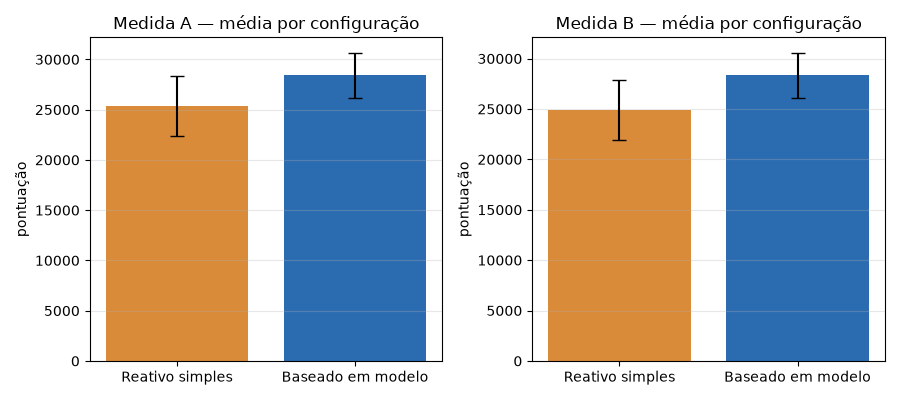
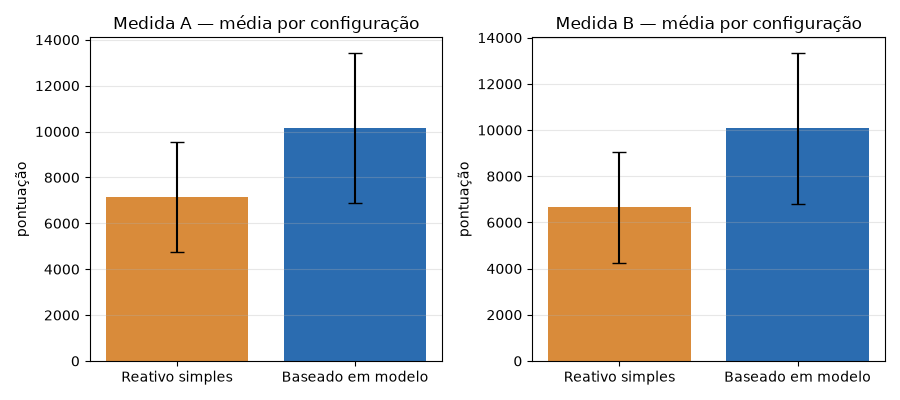
refactor: pontua apenas os quadrados limpos pelo agente nas medidas A e B

diff --git a/aspirador/simulador.py b/aspirador/simulador.py
@@ -12,7 +12,7 @@ class Medida:
     total: float = 0.0
     historico: list = field(default_factory=list)
 
-    def passo(self, quadrados_limpos: int, movimentos: int) -> None:
+    def passo(self, celulas_limpas: int, movimentos: int) -> None:
         raise NotImplementedError
 
     def media(self, n: int) -> float:
@@ -23,8 +23,8 @@ class MedidaA(Medida):
     def __init__(self) -> None:
         super().__init__(nome="Medida A")
 
-    def passo(self, quadrados_limpos: int, movimentos: int) -> None:
-        self.total += quadrados_limpos
+    def passo(self, celulas_limpas: int, movimentos: int) -> None:
+        self.total += celulas_limpas
         self.historico.append(self.total)
 
 
@@ -33,9 +33,9 @@ class MedidaB(Medida):
         super().__init__(nome="Medida B")
         self.movimentos = 0
 
-    def passo(self, quadrados_limpos: int, movimentos: int) -> None:
+    def passo(self, celulas_limpas: int, movimentos: int) -> None:
         self.movimentos += movimentos
-        self.total += quadrados_limpos - movimentos
+        self.total += celulas_limpas - movimentos
         self.historico.append(self.total)
 
 
@@ -110,7 +110,7 @@ class Simulador:
 
         self.passos += 1
         self.acoes.append(acao.value)
-        limpos = self.ambiente.quadrados_limpos()
+        limpos = self.ambiente.limpas
         self.medida_a.passo(limpos, movimentos_delta)
         self.medida_b.passo(limpos, movimentos_delta)
         self.historico_limpos.append(self.ambiente.limpas)

diff --git a/tests/test_core.py b/tests/test_core.py
@@ -207,3 +207,26 @@ def test_ambiente_sem_sujeira():
     assert resultado.passos_ate_limpo == 0
     assert resultado.movimentos_ate_limpo == 0
     assert resultado.percentual_limpo == 100.0
+    assert resultado.score_a == 0.0
+
+
+def test_pontua_apenas_o_que_foi_limpado_pelo_robo():
+    resultado = Simulador(
+        Ambiente(3, 3, 0.0, 0.0, seed=0),
+        AgenteBaseadoEmModelo(seed=0),
+        T=10,
+    ).rodar()
+    assert resultado.limpo is True
+    assert resultado.score_a == 0.0
+    assert resultado.score_b == -resultado.movimentos
+
+
+def test_score_a_soma_apenas_celulas_limpas_pelo_robo():
+    resultado = Simulador(
+        Ambiente(4, 4, 0.5, 0.0, seed=3),
+        AgenteBaseadoEmModelo(seed=3),
+        T=120,
+    ).rodar()
+    assert resultado.score_a == sum(resultado.historico_limpos)
+    assert resultado.score_b == resultado.score_a - resultado.movimentos
+    assert resultado.score_a <= resultado.passos * resultado.total_sujos

diff --git a/docs/apresentacao.md b/docs/apresentacao.md
@@ -39,10 +39,10 @@ Em ambos os casos, as ações são aplicadas por `aspirador/ambiente.py`
 ### Critério de parada
 
 Nos experimentos, todos executam **exatamente T = 500 períodos**, o que torna a
-Medida A (soma dos quadrados limpos por período) comparável — a medida premia
-manter o ambiente limpo. Terminar ao limpar inverteria o ranking: o agente
-rápido acumularia poucos pontos e o agente que nunca limpa acumularia mais. Na
-GUI há a opção **"Parar quando limpo"** (desligada por padrão), com T como teto.
+Medida A (soma, por período, das células limpas **pelo robô**) comparável — a
+medida premia limpar cedo e manter limpo o que foi limpo. Terminar ao limpar
+mudaria a escala do ranking. Na GUI há a opção **"Parar quando limpo"**
+(desligada por padrão), com T como teto.
 
 ## 3. Resultados empíricos
 
@@ -50,8 +50,8 @@ Bateria: 40 configurações, 8 × 8, T = 500, reativo com 10 repetições.
 
 | Agente | Medida A (média ± desvio) | Medida B (média ± desvio) |
 |---|---:|---:|
-| Baseado em modelo | 28.436,05 ± 2.198,63 | 28.354,40 ± 2.198,06 |
-| Reativo simples | 25.403,03 ± 2.938,47 | 24.922,76 ± 2.935,98 |
+| Baseado em modelo | 10.161,05 ± 3.232,85 | 10.079,40 ± 3.226,68 |
+| Reativo simples | 7.128,04 ± 2.366,50 | 6.647,76 ± 2.372,96 |
 
 | Agente | Movimentos | Células limpas | Terminou limpo |
 |---|---:|---:|---:|
@@ -81,9 +81,10 @@ disponíveis**, **objetivo** e **medida de desempenho**.
   estado interno reduz o custo de exploração e evita movimentos improdutivos.
 - O reativo é *localmente* sensato (aspira quando há sujeira) e racional **dado
   o seu programa**, mas não consegue coordenar a cobertura sem memória.
-- A Medida A premia **manter** o ambiente limpo ao longo do tempo; a Medida B
-  acrescenta a **eficiência** de deslocamento. Sob outra medida (energia, tempo,
-  aspiração desnecessária), a avaliação poderia mudar.
+- A Medida A soma as células **limpas pelo robô** a cada período (células que já
+  iniciam limpas não contam); a Medida B acrescenta a **eficiência** de
+  deslocamento. Sob outra medida (energia, tempo, aspiração desnecessária), a
+  avaliação poderia mudar.
 - Conclusão adequada: o resultado vale **para estas medidas e para este
   ambiente**; não se deve concluir que o reativo seja "burro", mas sim limitado
   pelas informações que seu programa permite usar.

diff --git a/README.md b/README.md
@@ -3,8 +3,16 @@
 Simulador do mundo do aspirador de pó com dois agentes — **reativo simples** e
 **baseado em modelos** — comparados sob duas medidas de desempenho:
 
-- **Medida A:** +1 ponto por quadrado limpo em cada período (acumulado).
-- **Medida B:** +1 ponto por quadrado limpo e −1 ponto por movimento.
+- **Medida A:** +1 ponto por quadrado **limpo pelo robô** em cada período
+  (acumulado).
+- **Medida B:** +1 ponto por quadrado **limpo pelo robô** e −1 ponto por
+  movimento.
+
+> **Interpretação adotada:** "quadrado limpo" = célula cuja sujeira foi removida
+> pelo agente. Células que já iniciam limpas **não pontuam**. O `GUIA.md` usa a
+> expressão "cada quadrado limpo" sem restringir a origem; adotamos esta leitura
+> mais estrita (a alternativa contaria também as células pré-limpias, inflando a
+> medida sem refletir trabalho do agente).
 
 Stack: Python 3.11+, com execução por **CLI** e por **interface gráfica
 (Tkinter)**. Dependências: `matplotlib`, `pandas`, `pytest` (+ `python3-tk`
@@ -134,8 +142,8 @@ Bateria: 40 configurações, 8 × 8, T = 500, reativo com 10 repetições.
 
 | Agente | Medida A | Medida B | Movimentos | Limpou tudo |
 |---|---:|---:|---:|---:|
-| Baseado em modelo | **28.436,05 ± 2.198,63** | **28.354,40 ± 2.198,06** | 81,7 | 100 % |
-| Reativo simples | 25.403,03 ± 2.938,47 | 24.922,76 ± 2.935,98 | 480,3 | 24,2 % |
+| Baseado em modelo | **10.161,05 ± 3.232,85** | **10.079,40 ± 3.226,68** | 81,7 | 100 % |
+| Reativo simples | 7.128,04 ± 2.366,50 | 6.647,76 ± 2.372,96 | 480,3 | 24,2 % |
 
 Eficiência (médias por execução):
 

diff --git a/PLANO.md b/PLANO.md
@@ -25,8 +25,8 @@ sensores operam estritamente de forma local.
 | Estado interno + regras condição-ação | `aspirador/agentes.py` |
 | Ambiente determinístico e parcialmente observável | `aspirador/ambiente.py` |
 | Sensores estritamente locais | `aspirador/ambiente.py` (`Sensor`) |
-| Medida 1: +1 por quadrado limpo por período | `aspirador/simulador.py` (`MedidaA`) |
-| Medida 2: +1 limpo e −1 por movimento | `aspirador/simulador.py` (`MedidaB`) |
+| Medida 1: +1 por quadrado limpo **pelo robô** por período | `aspirador/simulador.py` (`MedidaA`) |
+| Medida 2: +1 limpo **pelo robô** e −1 por movimento | `aspirador/simulador.py` (`MedidaB`) |
 | Fixar tamanho do ambiente | `aspirador/experimentos.py` (`TAMANHO_FIXO = 8`) |
 | Múltiplas configurações (sujeira/obstáculos/posição) | `aspirador/experimentos.py` |
 | Pontuação por configuração | `resultados/tables/por_config.csv` |
@@ -53,6 +53,9 @@ sensores operam estritamente de forma local.
   permite outros valores manualmente).
 - **Critério de parada:** T fixo nos experimentos (comparabilidade da Medida A);
   "parar quando limpo" apenas como opção da GUI, com T como teto.
+- **Interpretação de "quadrado limpo":** célula cuja sujeira foi removida pelo
+  agente; células que já iniciam limpas não pontuam (leitura mais estrita do que
+  o texto literal do `GUIA.md`, registrada em `README.md`).
 - **GUI opcional** — só a interface importa Tkinter; o restante roda sem ela.
 
 Fora de escopo: empacotamento publicável, execução paralela.

diff --git a/ARQUITETURA.md b/ARQUITETURA.md
@@ -41,9 +41,10 @@ docs/
 - **`agentes.py`** — o agente reativo simples e o baseado em modelos, além do
   estado interno (matriz 0–4) do segundo.
 - **`simulador.py`** — ciclo percepção → decisão → ação → medida, as duas
-  medidas de desempenho, o critério de parada (T fixo; opcionalmente encerrar
-  quando limpo) e o resultado consolidado, incluindo métricas de eficiência
-  (passos e movimentos até limpar, percentual de sujeira removida).
+  medidas de desempenho (contando apenas células limpas **pelo agente**), o
+  critério de parada (T fixo; opcionalmente encerrar quando limpo) e o resultado
+  consolidado, incluindo métricas de eficiência (passos e movimentos até limpar,
+  percentual de sujeira removida).
 - **`experimentos.py`** — geração de configurações, execução da bateria,
   tabelas agregadas e gráficos.
 - **`gui/`** — interface Tkinter opcional que consome o núcleo; permite

diff --git a/AGENTS.md b/AGENTS.md
@@ -19,6 +19,8 @@
 - Toda saída experimental é reproduzível por seed.
 - Critério de parada: **T fixo** nos experimentos (para comparar a Medida A);
   "parar quando limpo" é apenas uma opção da GUI, com T como teto.
+- "Quadrado limpo" nas medidas = célula cuja sujeira foi **removida pelo
+  agente**; células que já iniciam limpas não pontuam.
 
 ## Comandos
 
